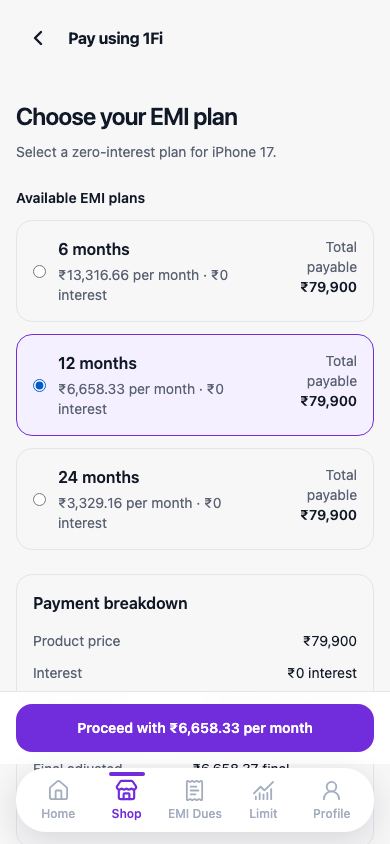
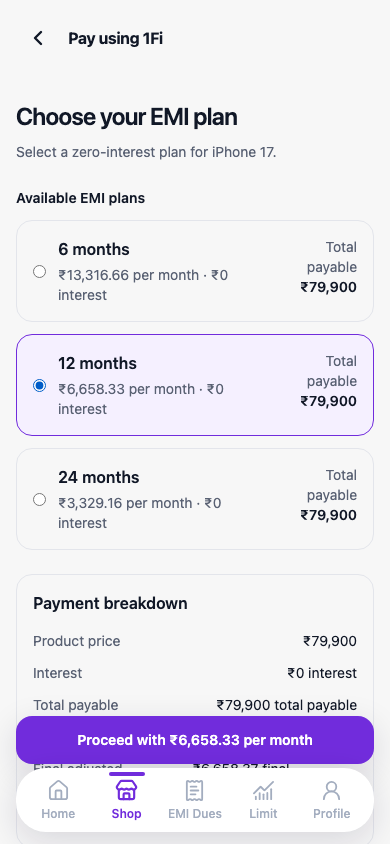
fix: float checkout actions without panels

Changed region(s): [[0.0308, 0.8318, 0.9846, 0.9242]]

diff --git a/src/features/marketplace/components/emi-selection.tsx b/src/features/marketplace/components/emi-selection.tsx
@@ -52,9 +52,14 @@ export function EmiSelection({ onBack, onSubmit, product, variant }: EmiSelectio
         </fieldset>
         {selectedPlan && <div className="mt-6"><PaymentBreakdown plan={selectedPlan} pricePaise={variant.pricePaise} /></div>}
         {error && <p aria-live="polite" className="mt-4 text-sm text-red-700" role="alert">{error}</p>}
-        <div className="sticky bottom-20 z-10 -mx-4 mt-6 border-t border-[var(--line)] bg-white/95 px-4 py-3 pb-[calc(0.75rem+env(safe-area-inset-bottom))] backdrop-blur">
-          <button className="min-h-12 w-full rounded-2xl bg-[var(--brand-500)] px-4 text-sm font-semibold text-white disabled:cursor-not-allowed disabled:opacity-45" disabled={!selectedPlan || isPending} onClick={submit} type="button">{isPending ? "Submitting plan" : ctaLabel}</button>
-        </div>
+        <button
+          className="sticky bottom-20 z-10 mt-6 min-h-12 w-full rounded-2xl bg-[var(--brand-500)] px-4 text-sm font-semibold text-white shadow-[var(--shadow-float)] disabled:cursor-not-allowed disabled:opacity-45"
+          disabled={!selectedPlan || isPending}
+          onClick={submit}
+          type="button"
+        >
+          {isPending ? "Submitting plan" : ctaLabel}
+        </button>
       </section>
     </>
   );

diff --git a/src/features/marketplace/components/__tests__/product-experience.test.tsx b/src/features/marketplace/components/__tests__/product-experience.test.tsx
@@ -89,8 +89,8 @@ describe("ProductExperience", () => {
     expect(screen.getByText("Total payable ₹89,900")).toBeVisible();
 
     const action = screen.getByRole("button", { name: "View EMI plans" });
-    const actionBar = action.parentElement;
-    expect(actionBar?.parentElement?.lastElementChild).toBe(actionBar);
+    expect(action.parentElement?.lastElementChild).toBe(action);
+    expect(action).toHaveClass("sticky", "bottom-20", "shadow-[var(--shadow-float)]");
 
     await user.click(action);
     expect(screen.getByRole("heading", { name: "Choose your EMI plan" })).toBeVisible();
@@ -100,9 +100,9 @@ describe("ProductExperience", () => {
     render(<ProductExperience product={iphoneFixture} relatedProducts={[]} />);
 
     const reviewsHeading = screen.getByRole("heading", { name: "Customer reviews" });
-    const actionBar = screen.getByRole("button", { name: "View EMI plans" }).parentElement;
+    const action = screen.getByRole("button", { name: "View EMI plans" });
 
-    expect(actionBar?.previousElementSibling).toContainElement(reviewsHeading);
+    expect(action.previousElementSibling).toContainElement(reviewsHeading);
   });
 
   it("returns from the EMI stage with the variant selection preserved", async () => {

diff --git a/tests/e2e/marketplace.spec.ts b/tests/e2e/marketplace.spec.ts
@@ -164,6 +164,21 @@ test("supports keyboard navigation for Shop tabs and EMI choices", async ({ page
   await expect(page.getByRole("radio", { name: /12 months/ })).toBeChecked();
 });
 
+test("keeps only the checkout buttons sticky above the bottom navigation", async ({ page }) => {
+  await openIphoneConfiguration(page);
+
+  const viewPlans = page.getByRole("button", { name: "View EMI plans" });
+  await expect(viewPlans).toHaveCSS("position", "sticky");
+  await expect(viewPlans).not.toHaveCSS("box-shadow", "none");
+  await expect(viewPlans.locator("xpath=..")).not.toHaveCSS("backdrop-filter", /blur/);
+
+  await viewPlans.click();
+  const proceed = page.getByRole("button", { name: "Proceed" });
+  await expect(proceed).toHaveCSS("position", "sticky");
+  await expect(proceed).not.toHaveCSS("box-shadow", "none");
+  await expect(proceed.locator("xpath=..")).not.toHaveCSS("backdrop-filter", /blur/);
+});
+
 test("captures the assignment walkthrough at the mobile submission viewport", async ({ page }, testInfo) => {
   test.skip(testInfo.project.name !== "mobile-chrome", "Submission captures use the 390 by 844 mobile project.");
   await page.emulateMedia({ reducedMotion: "reduce" });

diff --git a/src/features/marketplace/components/sticky-action-bar.tsx b/src/features/marketplace/components/sticky-action-bar.tsx
@@ -5,8 +5,13 @@ type StickyActionBarProps = {
 
 export function StickyActionBar({ disabled, onClick }: StickyActionBarProps) {
   return (
-    <div className="sticky bottom-20 z-10 -mx-4 mt-8 border-t border-[var(--line)] bg-white/95 px-4 py-3 pb-[calc(0.75rem+env(safe-area-inset-bottom))] backdrop-blur">
-      <button className="min-h-12 w-full rounded-2xl bg-[var(--brand-500)] px-4 text-sm font-semibold text-white disabled:cursor-not-allowed disabled:opacity-45" disabled={disabled} onClick={onClick} type="button">View EMI plans</button>
-    </div>
+    <button
+      className="sticky bottom-20 z-10 mt-8 min-h-12 w-full rounded-2xl bg-[var(--brand-500)] px-4 text-sm font-semibold text-white shadow-[var(--shadow-float)] disabled:cursor-not-allowed disabled:opacity-45"
+      disabled={disabled}
+      onClick={onClick}
+      type="button"
+    >
+      View EMI plans
+    </button>
   );
 }

diff --git a/src/features/marketplace/components/__tests__/emi-selection.test.tsx b/src/features/marketplace/components/__tests__/emi-selection.test.tsx
@@ -19,6 +19,8 @@ describe("EmiSelection", () => {
 
     const action = screen.getByRole("button", { name: /Proceed/ });
     expect(action).toBeDisabled();
+    expect(action.parentElement?.lastElementChild).toBe(action);
+    expect(action).toHaveClass("sticky", "bottom-20", "shadow-[var(--shadow-float)]");
 
     await user.click(screen.getByRole("radio", { name: /12 months/ }));
 
